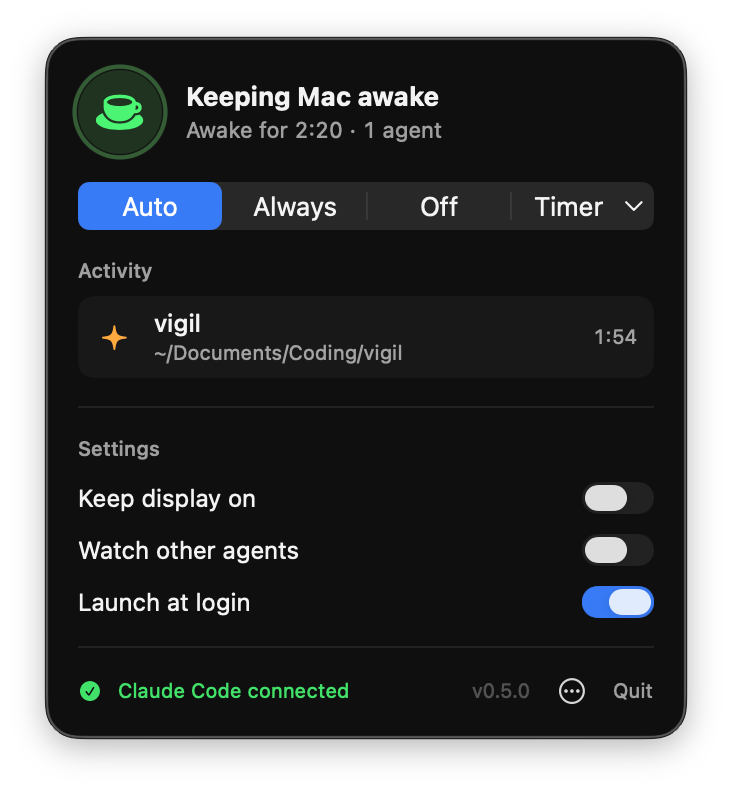
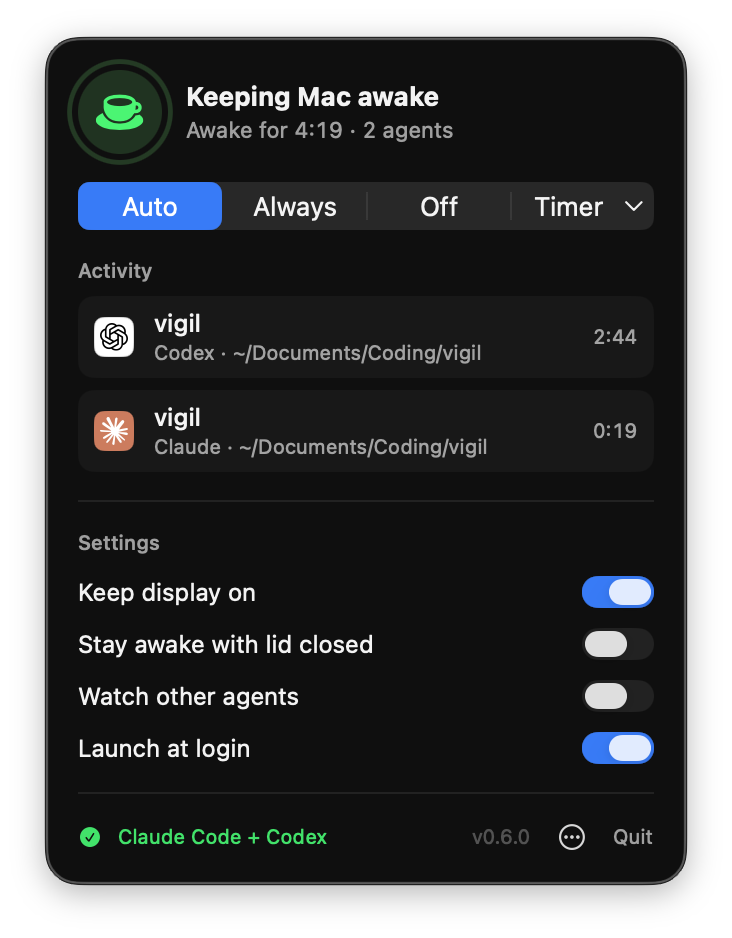
docs: show Claude Code and Codex in the README screenshot, add version badge

diff --git a/README.md b/README.md
@@ -2,7 +2,7 @@
   <img src="Resources/AppIcon.png" width="128" alt="Vigil icon">
 </p>
 
-<h1 align="center">Vigil</h1>
+<h1 align="center">Vigil <a href="https://github.com/okiro/vigil/releases/latest"><img src="https://img.shields.io/github/v/release/okiro/vigil?label=&color=8E8E93&style=flat-square" alt="Latest version" valign="middle"></a></h1>
 
 <p align="center">
   <b>Your Mac stays awake while your AI agent works, and sleeps as soon as it's done.</b>
@@ -17,7 +17,7 @@
 </p>
 
 <p align="center">
-  <img src="docs/screenshot.png" width="366" alt="Vigil's menu-bar panel keeping the Mac awake while Claude Code works">
+  <img src="docs/screenshot.png" width="366" alt="Vigil's menu-bar panel keeping the Mac awake while Claude Code and Codex work">
 </p>
 
 ---
